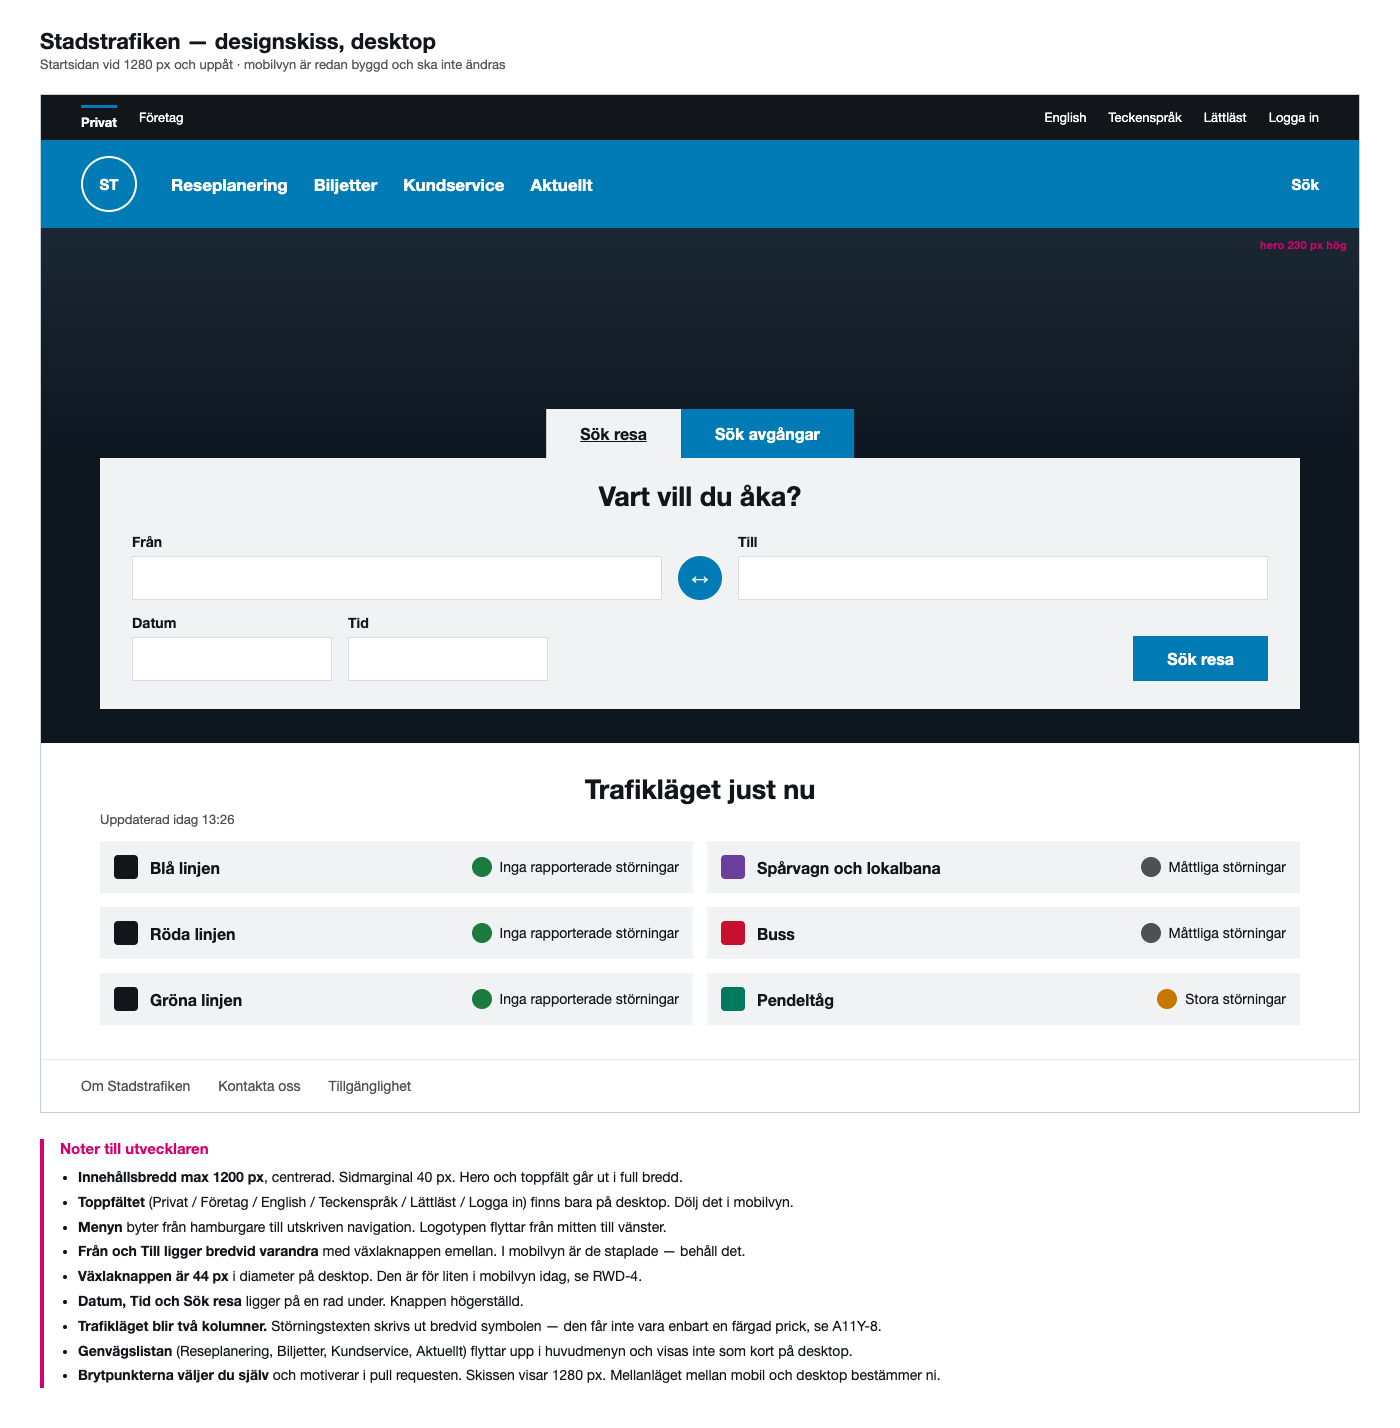
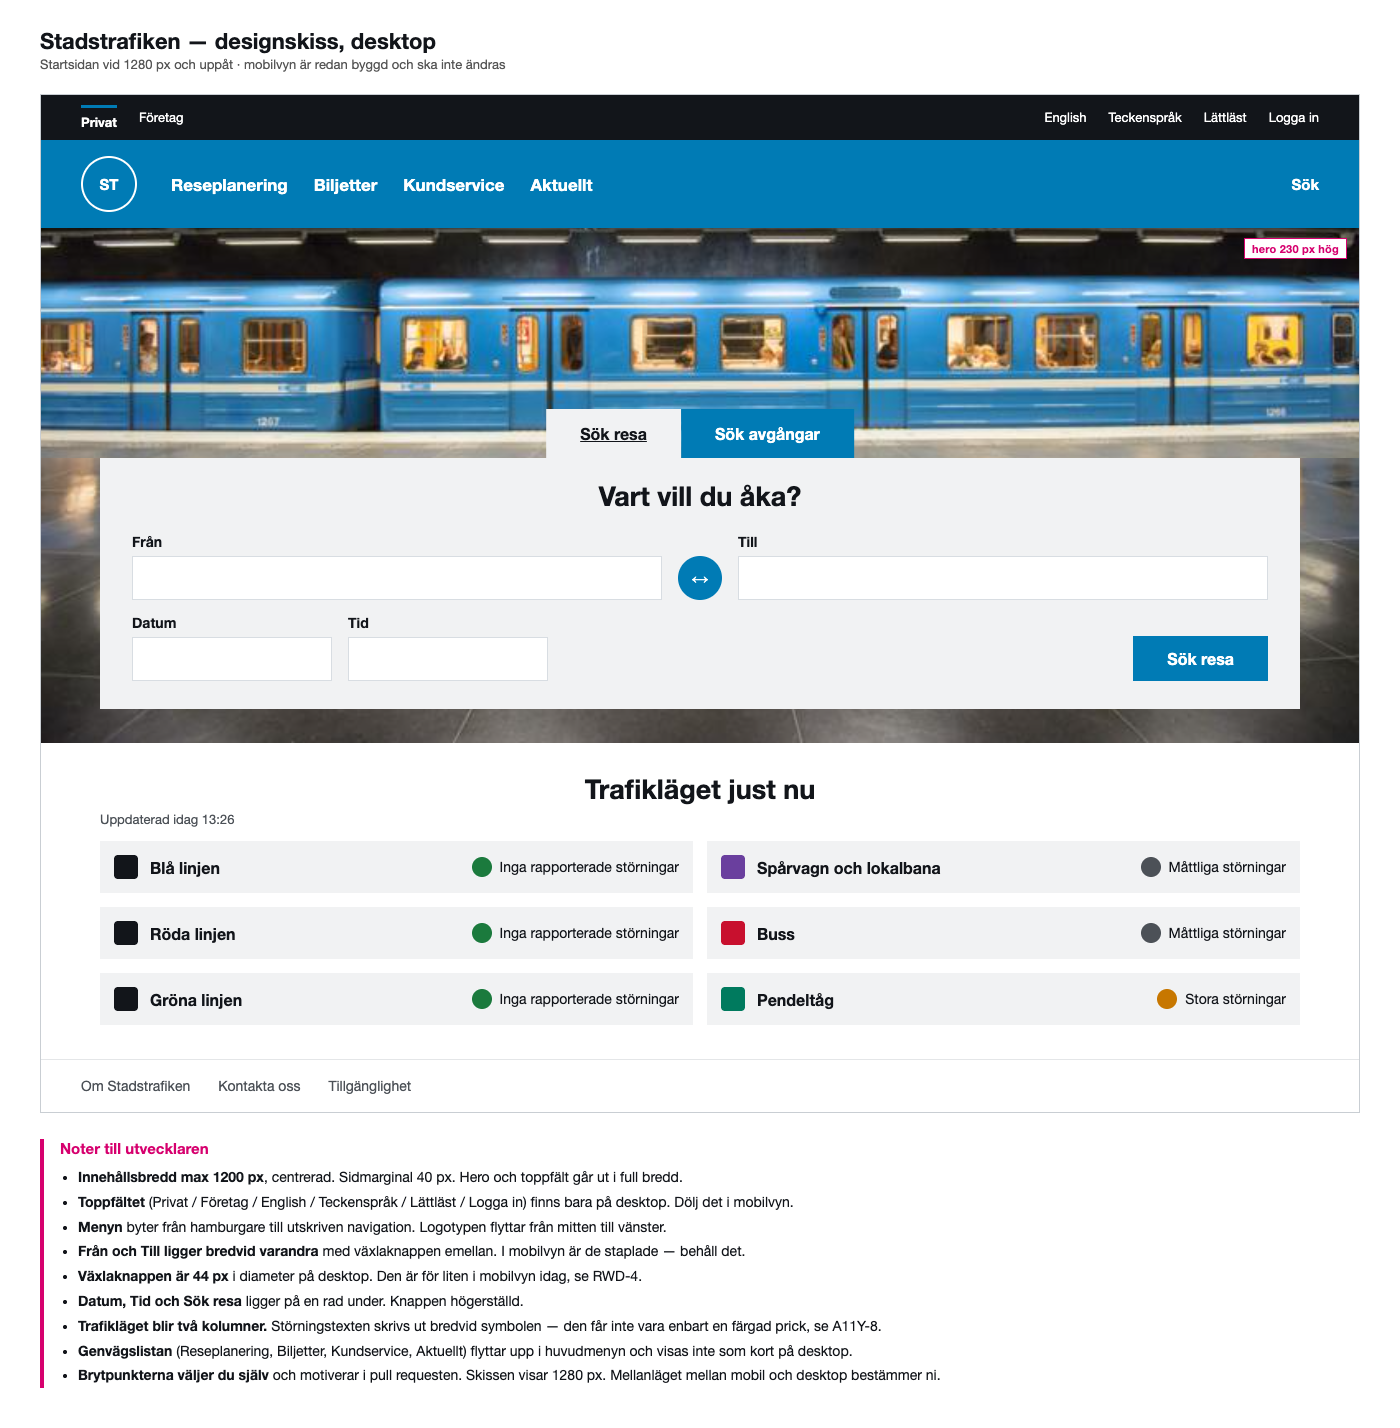
lägger in riktiga hero-bilden i mobilvyn och skissen

Changed region(s): [[0.0307, 0.1541, 0.9829, 0.5238]]

diff --git a/index.html b/index.html
@@ -21,7 +21,7 @@
     </div>
 
     <div class="hero">
-        <img src="img/hero.svg" class="hero-bild">
+        <img src="img/tunnelbana-stockholm-1-1.jpg" class="hero-bild">
         <div class="flikar">
             <div class="flik aktiv">Sök resa</div>
             <div class="flik">Sök avgångar</div>
